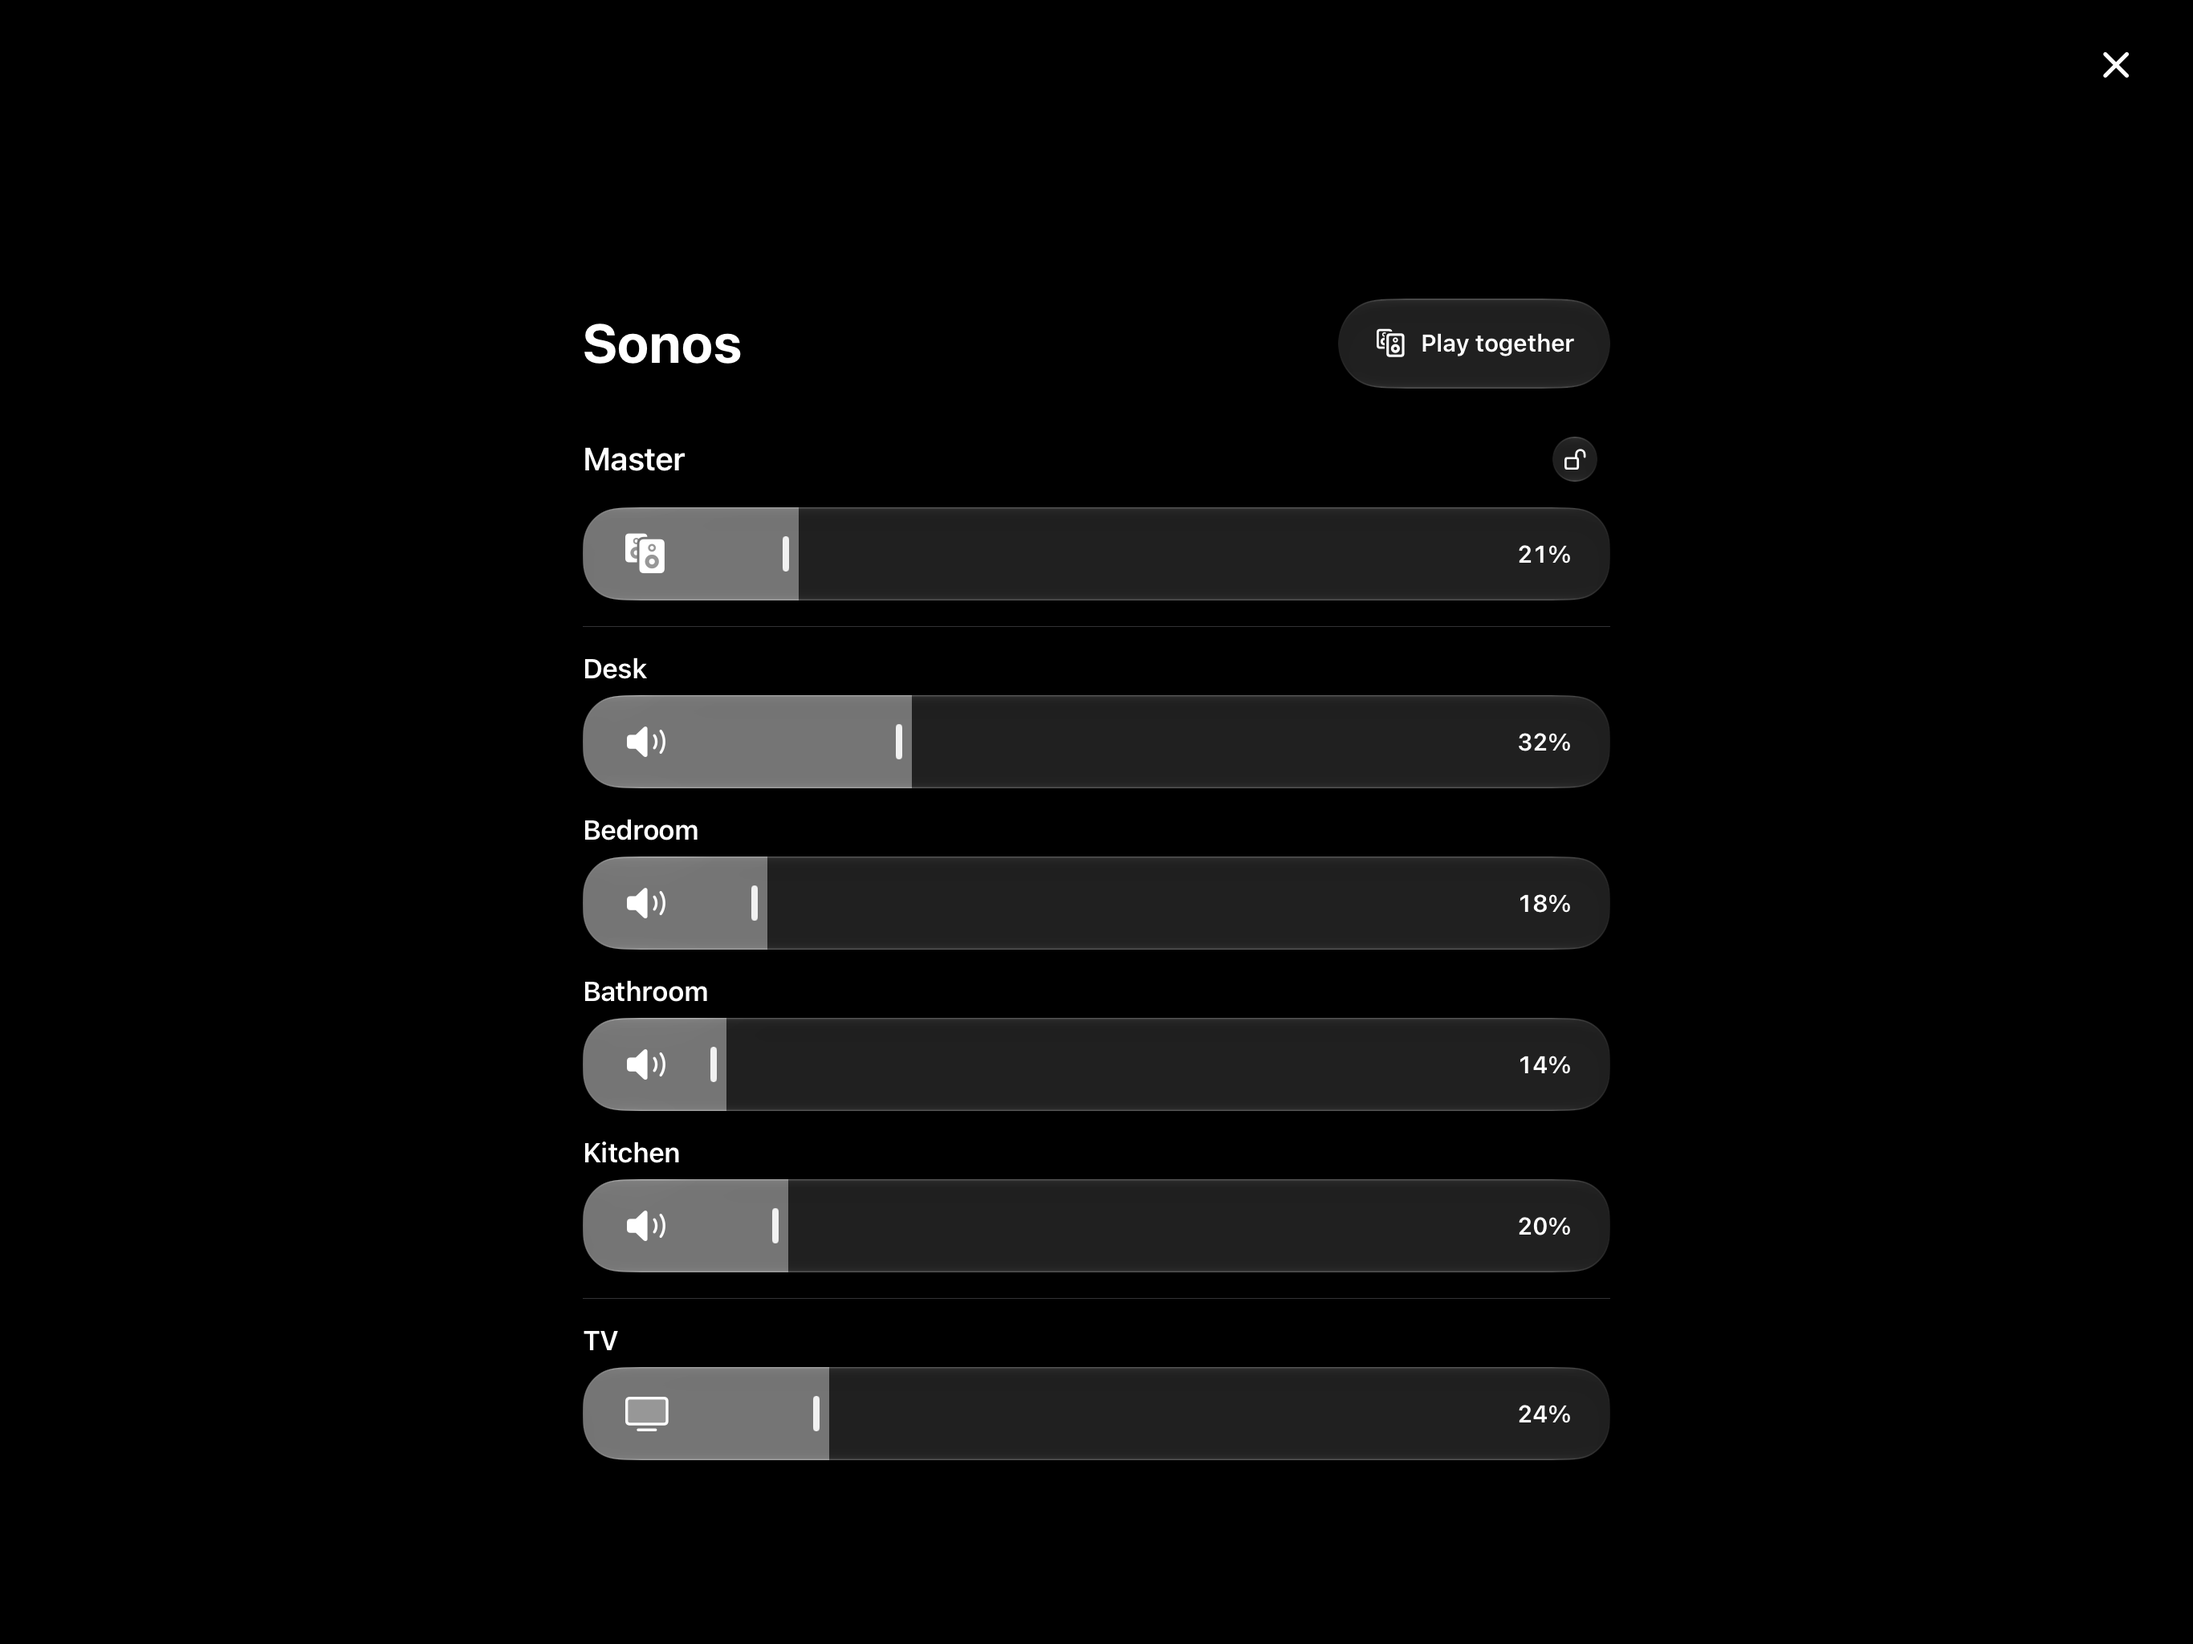
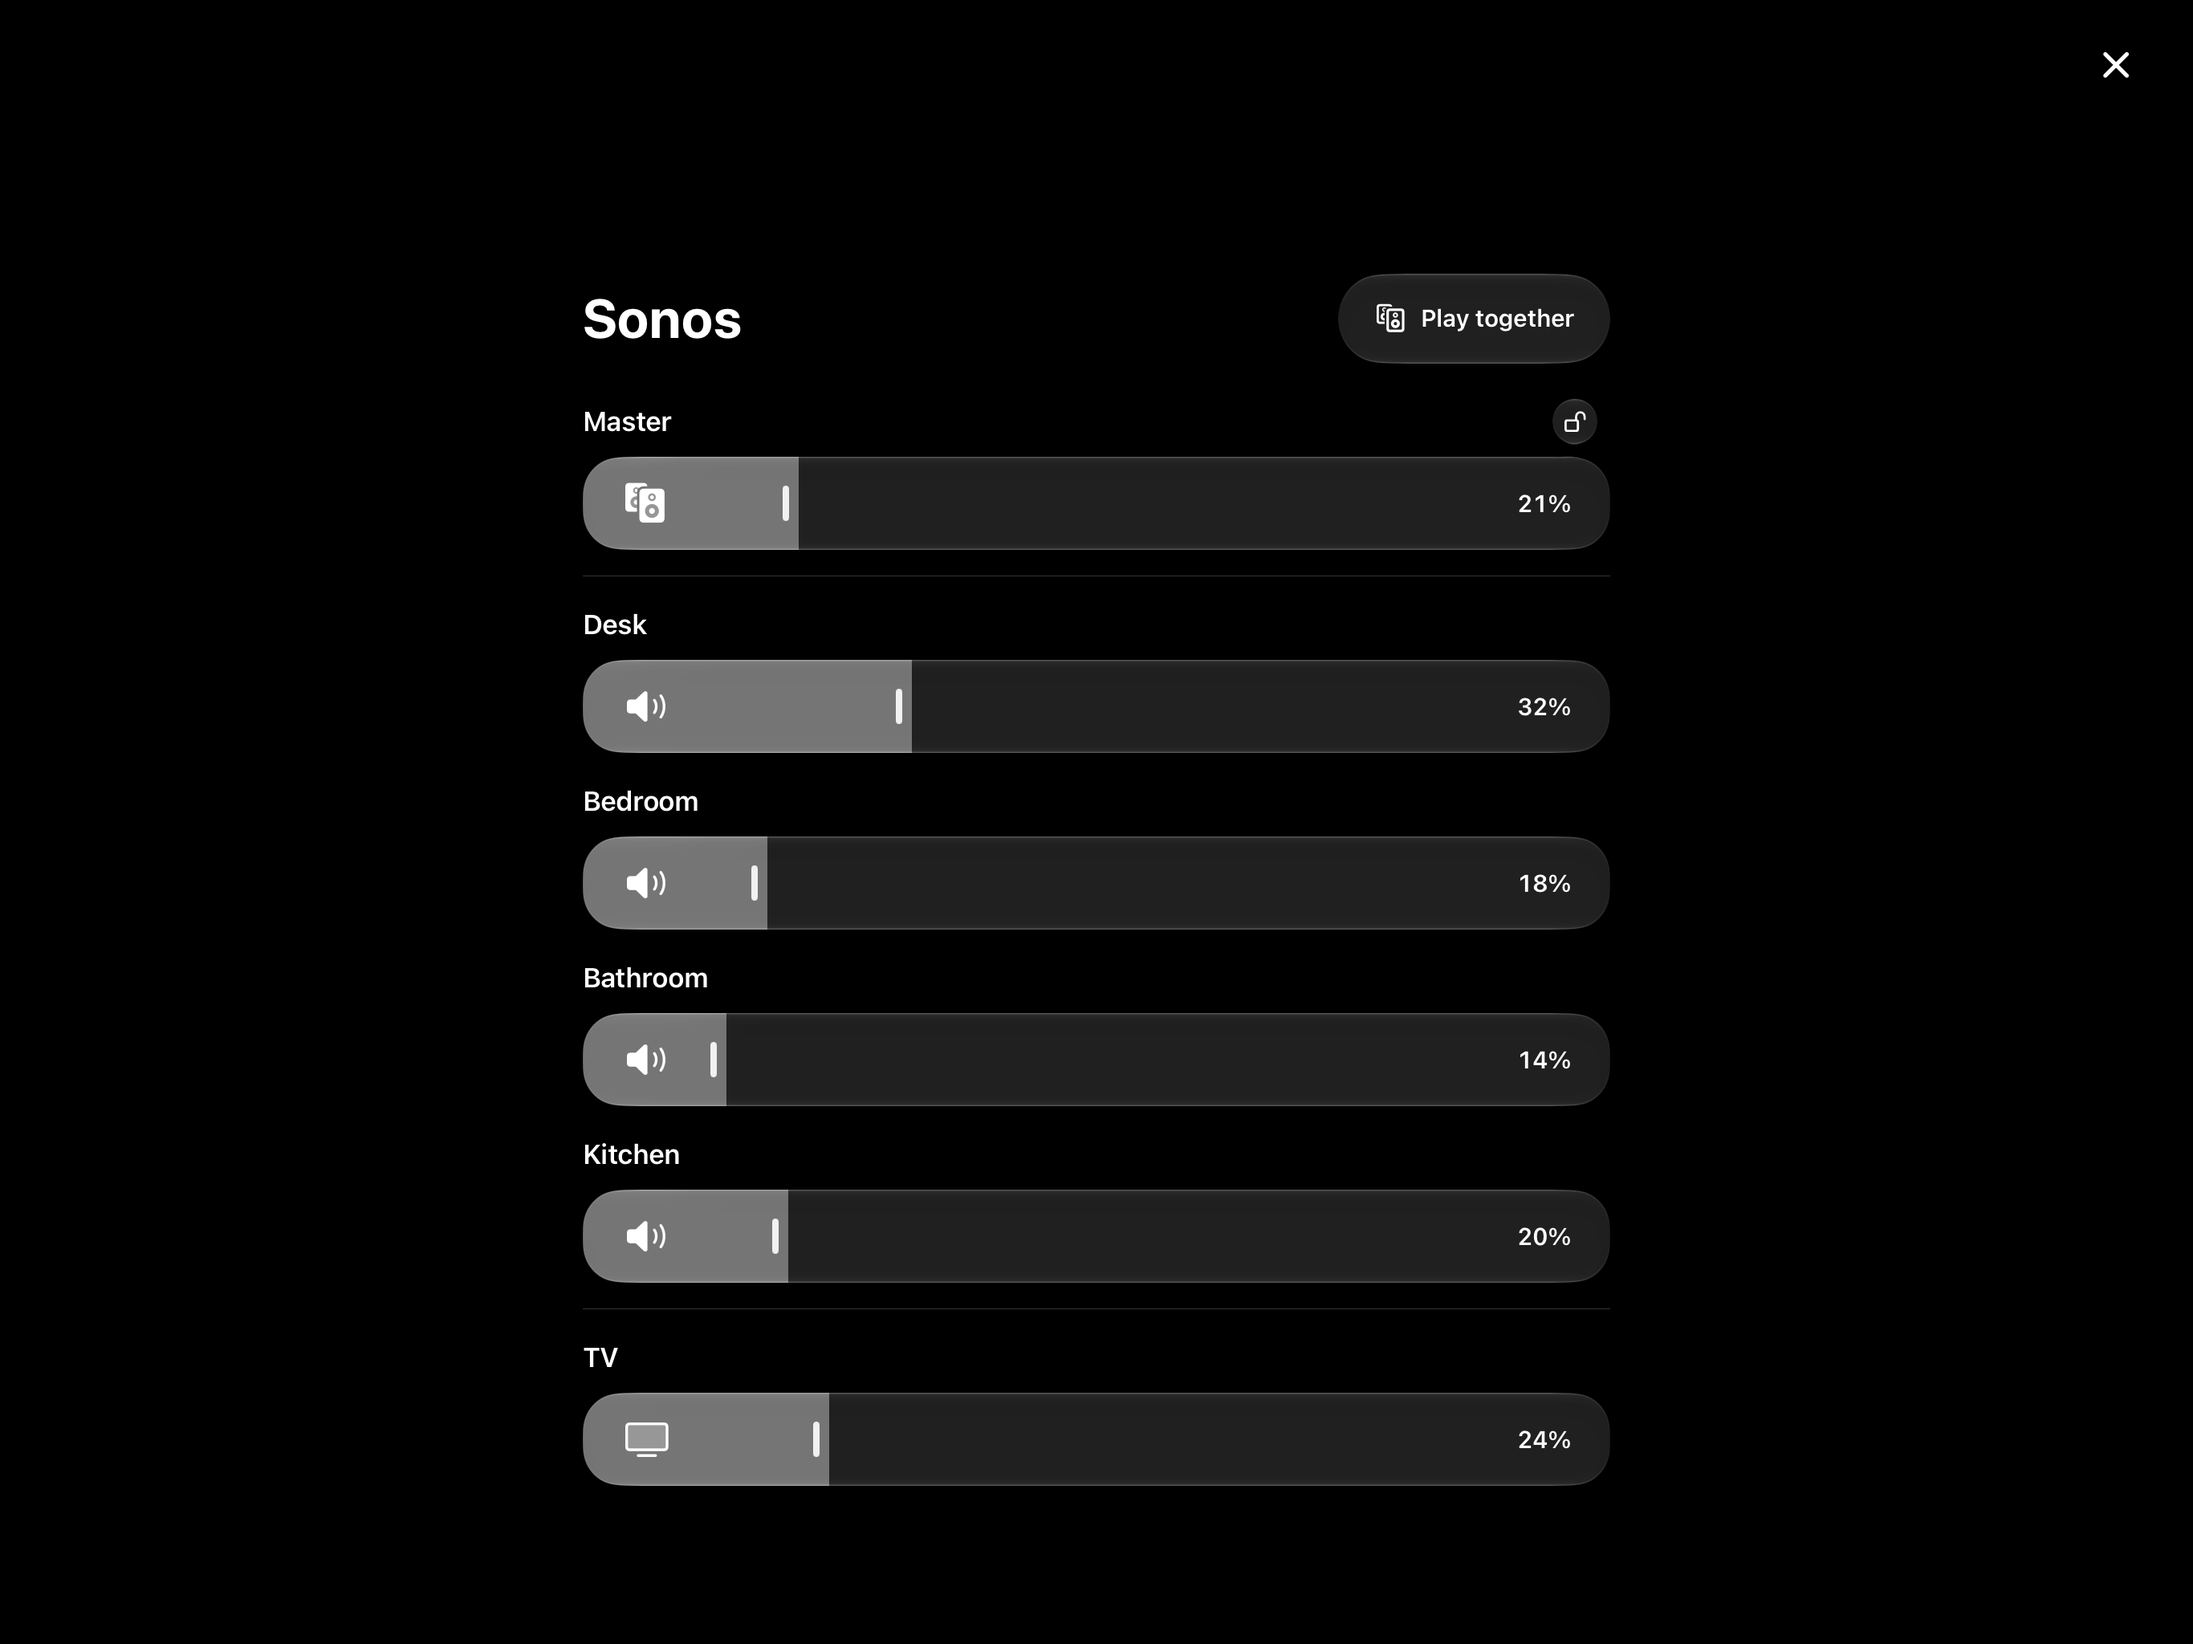
fix(panel): align Sonos volume label spacing

Changed region(s): [[0.2489, 0.1562, 0.7467, 0.7812], [0.2489, 0.8125, 0.7467, 0.9062], [0.2489, 0.1875, 0.3422, 0.2188]]

diff --git a/apps/apple-prototype/Sources/SonosRoomsPage.swift b/apps/apple-prototype/Sources/SonosRoomsPage.swift
@@ -44,14 +44,15 @@ struct SonosRoomsPage: View {
                 header
                 GlassEffectContainer(spacing: 12) {
                     VStack(spacing: 16) {
-                        master
+                        volumeRow(value: masterVolume, title: "Master", symbol: "hifispeaker.2.fill")
+                            .disabled(speakers.isEmpty)
                         Divider()
                         ForEach(speakers) { room in
-                            roomVolume(room, title: room.name, symbol: "speaker.wave.2.fill")
+                            volumeRow(value: shownVolume(for: room), title: room.name, symbol: "speaker.wave.2.fill", roomID: room.id)
                         }
                         if let tv {
                             Divider()
-                            roomVolume(tv, title: "TV", symbol: "tv")
+                            volumeRow(value: shownVolume(for: tv), title: "TV", symbol: "tv", roomID: tv.id)
                         }
                     }
                 }
@@ -91,30 +92,22 @@ struct SonosRoomsPage: View {
         .frame(minHeight: 54)
     }
 
-    private var master: some View {
-        VStack(spacing: 8) {
-            HStack(spacing: 4) {
-                Text("Master").font(.title3.weight(.semibold))
-                Spacer()
-                Button {
-                    store.send(.globalLock)
-                } label: {
-                    Image(systemName: store.globalLock ? "lock.fill" : "lock.open")
-                        .font(.system(size: 13, weight: .semibold))
-                        .frame(width: 28, height: 28)
-                        .glassEffect(.regular.interactive(), in: .circle)
-                        .frame(width: 44, height: 44)
-                        .contentShape(.rect)
-                }
-                .buttonStyle(.plain)
-                .accessibilityLabel("Link Home speaker volumes")
-                .accessibilityHint("Moving a Home speaker volume adjusts the other Home speakers")
-                .accessibilityAddTraits(store.globalLock ? .isSelected : [])
-                .accessibilityIdentifier("sonos-volume-lock")
-            }
-            volumeBar(value: masterVolume, title: "Master", symbol: "hifispeaker.2.fill")
+    private var volumeLock: some View {
+        Button {
+            store.send(.globalLock)
+        } label: {
+            Image(systemName: store.globalLock ? "lock.fill" : "lock.open")
+                .font(.system(size: 13, weight: .semibold))
+                .frame(width: 28, height: 28)
+                .glassEffect(.regular.interactive(), in: .circle)
+                .frame(width: 44, height: 44)
+                .contentShape(.rect)
         }
-        .disabled(speakers.isEmpty)
+        .buttonStyle(.plain)
+        .accessibilityLabel("Link Home speaker volumes")
+        .accessibilityHint("Moving a Home speaker volume adjusts the other Home speakers")
+        .accessibilityAddTraits(store.globalLock ? .isSelected : [])
+        .accessibilityIdentifier("sonos-volume-lock")
     }
 
     private func shownVolume(for room: SoundRoom) -> Int {
@@ -124,26 +117,27 @@ struct SonosRoomsPage: View {
         return room.rawVolume
     }
 
-    private func roomVolume(_ room: SoundRoom, title: String, symbol: String) -> some View {
-        VStack(alignment: .leading, spacing: 6) {
-            Text(title).font(.headline)
-            volumeBar(value: shownVolume(for: room), title: title, symbol: symbol, roomID: room.id)
-        }
-    }
-
-    private func volumeBar(value: Int, title: String, symbol: String, roomID: String? = nil) -> some View {
+    private func volumeRow(value: Int, title: String, symbol: String, roomID: String? = nil) -> some View {
         let targetIDs: Set<String>
         if let roomID, !store.globalLock || roomID == tv?.id {
             targetIDs = [roomID]
         } else {
             targetIDs = Set(speakers.map(\.id))
         }
-        return FilledLevelControl(value: value, label: "\(title) volume", symbol: symbol, showsPercentage: true, preview: { value in
-            dragPreview = value.map { VolumePreview(roomIDs: targetIDs, value: $0) }
-        }) { value in
-            store.send(.roomVolumes(targetIDs, value))
+        return VStack(alignment: .leading, spacing: 8) {
+            Text(title).font(.headline)
+                .frame(maxWidth: .infinity, minHeight: 28, alignment: .leading)
+                // Overlay the larger touch target to keep every label row the same height.
+                .overlay(alignment: .trailing) {
+                    if roomID == nil { volumeLock }
+                }
+            FilledLevelControl(value: value, label: "\(title) volume", symbol: symbol, showsPercentage: true, preview: { value in
+                dragPreview = value.map { VolumePreview(roomIDs: targetIDs, value: $0) }
+            }) { value in
+                store.send(.roomVolumes(targetIDs, value))
+            }
+            .frame(height: 58)
+            .accessibilityIdentifier("sonos-volume-\(roomID ?? "master")")
         }
-        .frame(height: 58)
-        .accessibilityIdentifier("sonos-volume-\(roomID ?? "master")")
     }
 }

diff --git a/apps/apple-prototype/UITests/SonosMixerTests.swift b/apps/apple-prototype/UITests/SonosMixerTests.swift
@@ -26,6 +26,11 @@ import XCTest
         XCTAssertEqual(app.staticTexts.matching(identifier: "Desk").count, 1)
         XCTAssertFalse(app.staticTexts["Home speakers"].exists)
         XCTAssertTrue(app.buttons["Play together"].exists)
+        let masterLabelGap = abs(app.staticTexts["Master"].frame.midY - master.frame.midY)
+        for (label, slider) in [("Desk", desk), ("Bedroom", bedroom), ("TV", tv)] {
+            let labelGap = abs(app.staticTexts[label].frame.midY - slider.frame.midY)
+            XCTAssertEqual(labelGap, masterLabelGap, accuracy: 1, label)
+        }
         snapshot("sonos-mixer", app: app)
 
         func percentage(_ slider: XCUIElement) -> String {
